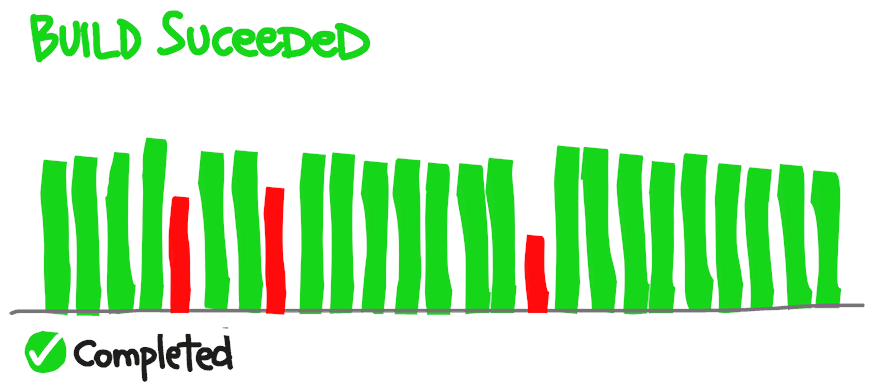
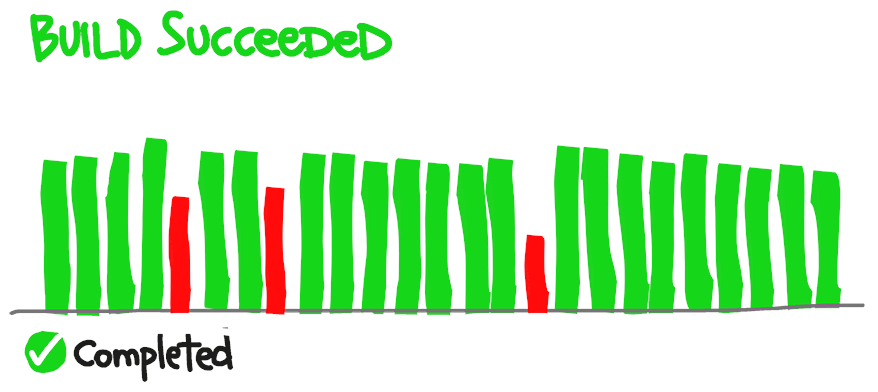
Merged PR 421026: Fixed image typo - gh2856
Fixed image typo

https://github.com/MicrosoftDocs/vsts-docs/issues/2856

Changed region(s): [[0.246, 0.0612, 0.4613, 0.1531]]

diff --git a/docs/what-is-devops.md b/docs/what-is-devops.md
@@ -6,7 +6,7 @@ ms.technology: devops-learn
 ms.topic: conceptual
 ms.manager: douge
 ms.author: samgu
-ms.date: 03/01/2018
+ms.date: 01/04/2018
 ---
 
 # What is DevOps?
